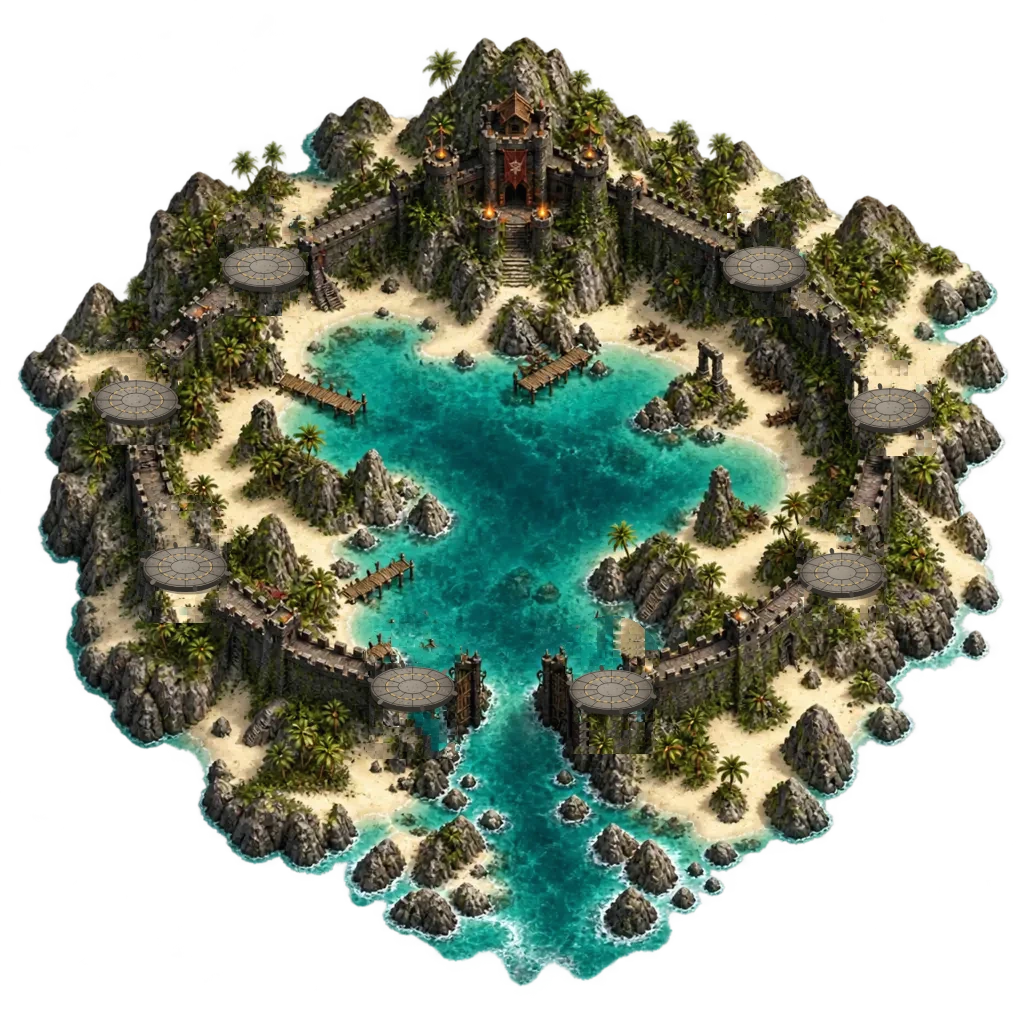
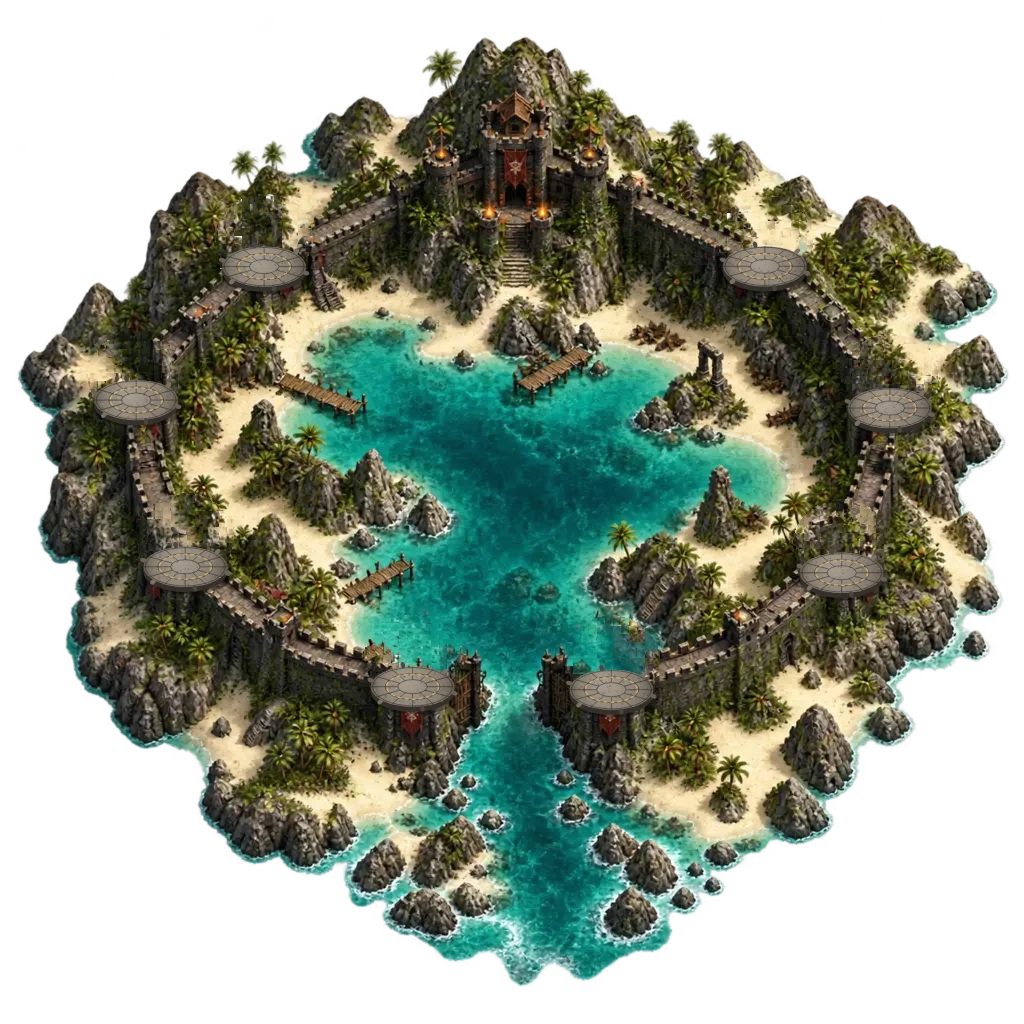
Filo kısaltması (tag), kaptan nicki ve adadaki kum lekesi düzeltmesi (#14)
- Filo kurarken 2–4 karakterlik kısaltma; gemi altında [TAG]nick ve rütbe
- KAPTAN sekmesinden nick: ilki ücretsiz, sonra 50 inci ve 1 gün arayla
- fleet-bastions: kule üstü silinir, alt gövde kaide kütüğü olarak kalır;
  doku yamamada renk ortalaması cezası ve kum kaynağı yasağı (lekeler giderildi)

Claude-Session: https://claude.ai/code/session_01Mc9BhaSSsCCxzjNzAUDeqJ

diff --git a/src/main.ts b/src/main.ts
@@ -7,7 +7,8 @@ import {ABILITIES,SPECIAL_AMMO,MINE,SPEED_BOOST,SHIELD_FACTOR,ARSENAL_MARKET,loa
 import {BOSS,loadFleetOwners,saveFleetOwners} from './conquest';
 import {TALENTS,OFFICERS,OFFICER_MAX_RANK,officerCost,officerSlots,talentPoints,loadCrew,saveCrew,spentPoints,computeBonus,type TalentId,type OfficerId} from './crew';
 import {FLEET_MASK} from './fleetMask';
-import {loadGuild,saveGuild,islandSlots,towerCost,TOWER_SLOTS,GUILD_NAME_MAX,type Guild} from './guild';
+import {loadGuild,saveGuild,islandSlots,towerCost,tagError,TOWER_SLOTS,GUILD_NAME_MAX,GUILD_TAG_MAX,type Guild} from './guild';
+import {loadProfile,saveProfile,nickError,rankOf,NICK_CHANGE_COST,NICK_COOLDOWN_MS,NICK_MAX} from './profile';
 import {createChest,chestRewardText,CHEST_PICKUP_RADIUS,CHEST_CLICK_RADIUS,DRIFT_RESPAWN_SECONDS,type LootChest} from './loot';
 import {ELITE_SHIPS,eliteById,type EliteShipId} from './elite-ships';
 
@@ -64,7 +65,7 @@ document.querySelector<HTMLDivElement>('#app')!.innerHTML = `
       <div class="reward-toast" id="rewardToast"></div>
       <div class="toast" id="toast"></div>
       <div class="portal-prompt" id="portalPrompt"></div><div class="event-panel" id="eventPanel"></div><div class="quest-overlay world-overlay" id="worldMapOverlay"><section class="quest-log world-log"><header><div><span class="eyebrow">Kaptanın deniz haritası</span><h2>DÜNYA HARİTASI</h2></div><button id="closeWorldMap" aria-label="Dünya haritasını kapat">×</button></header><div class="world-chart" id="worldChart"></div><div class="world-info" id="worldInfo"></div></section></div><div class="quest-overlay" id="questOverlay"><section class="quest-log"><header><div><span class="eyebrow">Kaptanın görev defteri</span><h2>DENİZ GÖREVLERİ</h2></div><button id="closeQuests" aria-label="Görevleri kapat">×</button></header><p class="quest-intro">Aynı anda yalnızca bir görev yürütülebilir. İptal edilen veya tamamlanan görev 8 saat sonra yeniden açılır.</p><div class="quest-list" id="questList"></div></section></div>
-      <div class="captain-overlay" id="captainOverlay"><section class="captain-profile"><header><div><span class="eyebrow">Oyuncu profili</span><h2>KAPTAN YASİN</h2></div><button id="closeCaptain" aria-label="Kaptan profilini kapat">×</button></header><div class="captain-tab" id="captainTab-profile"><div class="captain-identity"><div class="captain-portrait"><img src="/assets/icon-hat-v1.webp" alt="" draggable="false"/><b id="captainLevel">1</b></div><div><span>AMİRAL GEMİSİ</span><strong>Kara Yelken</strong><small>Gölgeler Denizi Kaptanı</small></div></div><div class="captain-stat-grid"><article><span>TECRÜBE PUANI</span><b id="xpText">0 / 100</b><i class="xp"><em id="xpBar"></em></i></article><article><span>CAN PUANI</span><b id="hpText">100 / 100</b><i class="hp"><em id="hpBar" style="width:100%"></em></i></article><article><span>ELİT PUAN</span><b id="profileElite">0 / 100</b><i class="elite"><em id="profileEliteBar"></em></i></article><article><span>SAVAŞ PUANI</span><b id="profileBattle">0 / 500</b><i class="battle"><em id="profileBattleBar"></em></i></article></div><div class="bonus-summary" id="bonusSummary"></div></div></section></div><div class="captain-overlay" id="guildOverlay"><section class="captain-profile crew-window guild-window"><header><div><span class="eyebrow">Filo hazinesi ve ada kuleleri</span><h2>FİLO</h2></div><button id="closeGuild" aria-label="Filo penceresini kapat">×</button></header><div id="guildPanel"></div></section></div><div class="captain-overlay" id="crewOverlay"><section class="captain-profile crew-window"><header><div><span class="eyebrow">Geminin subayları</span><h2>TAYFA</h2></div><button id="closeCrew" aria-label="Tayfayı kapat">×</button></header><div id="crewPanel"></div></section></div><div class="quest-overlay" id="settingsOverlay"><section class="quest-log settings-log"><header><div><span class="eyebrow">Oyun tercihleri</span><h2>AYARLAR</h2></div><button id="closeSettings" aria-label="Ayarları kapat">×</button></header><div id="settingsPanel"></div></section></div>
+      <div class="captain-overlay" id="captainOverlay"><section class="captain-profile"><header><div><span class="eyebrow">Oyuncu profili</span><h2 id="captainName">KAPTAN</h2></div><button id="closeCaptain" aria-label="Kaptan profilini kapat">×</button></header><div class="captain-tab" id="captainTab-profile"><div class="captain-identity"><div class="captain-portrait"><img src="/assets/icon-hat-v1.webp" alt="" draggable="false"/><b id="captainLevel">1</b></div><div><span>AMİRAL GEMİSİ</span><strong>Kara Yelken</strong><small>Gölgeler Denizi Kaptanı</small></div></div><div class="captain-nick" id="captainNick"></div><div class="captain-stat-grid"><article><span>TECRÜBE PUANI</span><b id="xpText">0 / 100</b><i class="xp"><em id="xpBar"></em></i></article><article><span>CAN PUANI</span><b id="hpText">100 / 100</b><i class="hp"><em id="hpBar" style="width:100%"></em></i></article><article><span>ELİT PUAN</span><b id="profileElite">0 / 100</b><i class="elite"><em id="profileEliteBar"></em></i></article><article><span>SAVAŞ PUANI</span><b id="profileBattle">0 / 500</b><i class="battle"><em id="profileBattleBar"></em></i></article></div><div class="bonus-summary" id="bonusSummary"></div></div></section></div><div class="captain-overlay" id="guildOverlay"><section class="captain-profile crew-window guild-window"><header><div><span class="eyebrow">Filo hazinesi ve ada kuleleri</span><h2>FİLO</h2></div><button id="closeGuild" aria-label="Filo penceresini kapat">×</button></header><div id="guildPanel"></div></section></div><div class="captain-overlay" id="crewOverlay"><section class="captain-profile crew-window"><header><div><span class="eyebrow">Geminin subayları</span><h2>TAYFA</h2></div><button id="closeCrew" aria-label="Tayfayı kapat">×</button></header><div id="crewPanel"></div></section></div><div class="quest-overlay" id="settingsOverlay"><section class="quest-log settings-log"><header><div><span class="eyebrow">Oyun tercihleri</span><h2>AYARLAR</h2></div><button id="closeSettings" aria-label="Ayarları kapat">×</button></header><div id="settingsPanel"></div></section></div>
       <div class="ship-overlay" id="eliteShipOverlay"><section class="ship-menu elite-ship-window"><header><div><span class="eyebrow">Elit filo tersanesi</span><h2>ELİT GEMİLER</h2><p>Elit puanınla açılan gemiyi incele ve amiral gemin olarak seç.</p></div><button id="closeEliteShips" aria-label="Elit gemileri kapat">×</button></header><div class="elite-ship-layout"><div class="elite-ship-grid" id="eliteShipGrid"></div><aside class="elite-ship-detail" id="eliteShipDetail"></aside></div></section></div><div class="ship-overlay" id="shipOverlay"><section class="ship-menu cannon-window"><header><img class="cannon-window-art" src="/assets/gunner-vignette-v1.webp" alt="" draggable="false"/><div><span class="eyebrow">Topçubaşının silah deposu</span><h2>TOP YERLEŞTİRME</h2><div class="inventory-capacity" id="shipSummary"></div></div><button id="closeShip" aria-label="Envanteri kapat">×</button></header><div class="cannon-rows" id="cannonRows"></div></section></div>
       <div class="development-overlay" id="developmentOverlay"><section class="development-menu"><header><div><span class="eyebrow">Kaptanın gelişim planı</span><h2>GELİŞTİRME</h2></div><button id="closeDevelopment" aria-label="Geliştirmeyi kapat">×</button></header><div id="talentPanel"><div class="dev-tree" id="upgradeList"></div><div class="upgrade-confirm" id="upgradeConfirm"></div></div></section></div>
       <div class="market-overlay" id="marketOverlay"><section class="market-menu"><header><div><span class="eyebrow">Tüccar loncası</span><h2>DENİZ MARKETİ</h2></div><button id="closeMarket" aria-label="Marketi kapat">×</button></header><div class="inventory-strip" id="inventoryStrip"></div><h3 class="market-heading">MÜHİMMAT</h3><div class="market-list" id="marketList"></div><h3 class="market-heading">İNCİ PAKETLERİ</h3><div class="pearl-shop"><div><b>◈ İnci Sandıkları</b><span>Gerçek ödeme sistemi kullanıcı hesaplarıyla birlikte açılacak.</span></div><button disabled>YAKINDA</button></div><div class="market-confirm" id="marketConfirm"></div></section></div>
@@ -195,6 +196,8 @@ const fleetOwners=loadFleetOwners();
 const fleetOwner=(key:MapKey=currentMap)=>fleetOwners[key]??'npc';
 const ownTowers:{x:number;y:number;cooldown:number;slot:number}[]=[];
 let guild:Guild|null=loadGuild();
+const profile=loadProfile();
+function escapeHtml(t:string){return t.replace(/[&<>"']/g,c=>({'&':'&amp;','<':'&lt;','>':'&gt;','"':'&quot;',"'":'&#39;'}[c]!));}
 let bossNextAt=performance.now()+BOSS.firstDelaySeconds*1000;
 let eventPanelClock=0,towersDestroyedHere=0;
 let mapFade=0;
@@ -622,11 +625,28 @@ function renderWorldMap(){
 }
 function openQuestLog(){renderQuestLog();ui('questOverlay').classList.add('open');}
 function closeQuestLog(){pendingCancel=null;ui('questOverlay').classList.remove('open');}
-function openCaptainProfile(){updateUI();renderBonusSummary();ui('captainOverlay').classList.add('open');}
+function openCaptainProfile(){renderNick();updateUI();renderBonusSummary();ui('captainOverlay').classList.add('open');}
 function refreshBonus(){bonus=computeBonus(crew);saveCrew(crew);renderBonusSummary();}
 function renderBonusSummary(){
   const pct=(v:number)=>`${v>=1?'+':''}${Math.round((v-1)*100)}%`;
   ui('bonusSummary').innerHTML=`<span class="eyebrow">Geliştirme, yetenek ve tayfa bonusları</span><div><b>Hasar ${pct(bonus.damage*(1+upgrades.damage*.11))}</b><b>Dolum ${pct(Math.max(.6,1-upgrades.reload*.04)*bonus.reload)}</b><b>Menzil +${upgrades.range*18+bonus.range}</b><b>Hız ${pct(bonus.speed*(104+upgrades.speed*5)/104)}</b><b>Alınan hasar ${pct(bonus.taken)}</b><b>Tamir ${pct(bonus.repair)}</b></div>`;
+}
+// ---------------------------------------------------------------- Kaptan adı (nick): ilk ad ücretsiz, sonra inciyle ve 1 gün arayla
+function renderNick(){
+  ui('captainName').textContent=profile.nick.toLocaleUpperCase('tr');
+  const wait=profile.named?profile.changedAt+NICK_COOLDOWN_MS-Date.now():0,cost=profile.named?NICK_CHANGE_COST:0,h=Math.ceil(wait/3600000);
+  ui('captainNick').innerHTML=`<div><span>KAPTAN ADI</span><strong>${guild?`<em class="guild-tag">[${escapeHtml(guild.tag)}]</em>`:''}${escapeHtml(profile.nick)}</strong><small>${rankOf(state.level)} · ${profile.named?`Değiştirme ücreti ${NICK_CHANGE_COST} İnci · iki değişiklik arası 1 gün`:'İlk adını ücretsiz belirleyebilirsin'}</small></div>
+    <div class="nick-form"><input id="nickInput" maxlength="${NICK_MAX}" placeholder="Yeni kaptan adı" ${wait>0?'disabled':''}/><button id="nickSave" ${wait>0?'disabled':''}>${wait>0?`${h} SAAT SONRA`:cost?`DEĞİŞTİR · ${cost} İNCİ`:'ADI KAYDET'}</button></div>`;
+  const btn=document.getElementById('nickSave') as HTMLButtonElement|null;if(!btn||wait>0)return;
+  btn.onclick=()=>{const n=(ui('nickInput') as HTMLInputElement).value.trim(),err=nickError(n);if(err){toast(err);return;}if(n===profile.nick){toast('Bu zaten senin adın');return;}
+    if(cost&&state.pearls<cost){toast(`Ad değiştirmek için ${cost} inci gerekli`);return;}state.pearls-=cost;profile.nick=n;profile.changedAt=Date.now();profile.named=true;saveProfile(profile);saveAccount();updateUI();renderNick();rewardNotice(`KAPTAN ADI: ${n}${cost?`   −${cost} İNCİ`:''}`);};
+}
+// Gemi altındaki ad: [FİLO TAG] nick, altında rütbe
+function drawPlayerLabel(){
+  const p=worldToScreen(player),y=p.y+62,tag=guild?`[${guild.tag}]`:'',nick=profile.nick;
+  ctx.save();ctx.font='700 16px Inter';ctx.textBaseline='middle';const tw=tag?ctx.measureText(tag).width+3:0,nw=ctx.measureText(nick).width,x0=p.x-(tw+nw)/2;
+  ctx.shadowColor='#000';ctx.shadowBlur=4;if(tag){ctx.fillStyle='#ffd24a';ctx.textAlign='left';ctx.fillText(tag,x0,y);}ctx.fillStyle='#f4f1ea';ctx.textAlign='left';ctx.fillText(nick,x0+tw,y);
+  ctx.font='600 12px Inter';ctx.fillStyle='#5fd8e0';ctx.textAlign='center';ctx.fillText(`${rankOf(state.level)} · Sv ${state.level}`,p.x,y+17);ctx.restore();
 }
 // ---------------------------------------------------------------- Filo: hazine, bağış ve kule dikme
 function openGuild(){renderGuild();ui('guildOverlay').classList.add('open');}
@@ -634,14 +654,15 @@ function closeGuild(){ui('guildOverlay').classList.remove('open');}
 function ownedFleetIslands(){return(Object.keys(MAPS) as MapKey[]).filter(k=>MAPS[k].tier>=5&&fleetOwner(k)==='player');}
 function renderGuild(){
   const panel=ui('guildPanel');
-  if(!guild){panel.innerHTML=`<div class="guild-create"><p>Henüz bir filon yok. Filo kurduğunda <b>filo başkanı</b> sen olursun. Filo üyeleri hazineye <b>inci bağışlar</b>. Başkan da bu hazineyle filo adalarındaki boş kaidelere kule diker.</p><label>Filo adı<input id="guildName" maxlength="${GUILD_NAME_MAX}" placeholder="Ör. Kara Yelkenliler"/></label><button id="guildCreate">FİLO KUR</button></div>`;
-    ui('guildCreate').onclick=()=>{const name=(ui('guildName') as HTMLInputElement).value.trim();if(name.length<3){toast('Filo adı en az 3 harf olmalı');return;}guild={name,treasury:0,donated:0,created:Date.now(),towers:{}};for(const k of ownedFleetIslands())islandSlots(guild,k);saveGuild(guild);setupFleetIsland();rewardNotice(`${name.toLocaleUpperCase('tr')} FİLOSU KURULDU`);renderGuild();};return;}
+  if(!guild){panel.innerHTML=`<div class="guild-create"><p>Henüz bir filon yok. Filo kurduğunda <b>filo başkanı</b> sen olursun. Filo üyeleri hazineye <b>inci bağışlar</b>. Başkan da bu hazineyle filo adalarındaki boş kaidelere kule diker.</p><div class="guild-create-row"><label>Kısaltma (tag)<input id="guildTag" maxlength="${GUILD_TAG_MAX}" placeholder="Ör. TC★"/></label><label>Filo adı<input id="guildName" maxlength="${GUILD_NAME_MAX}" placeholder="Ör. Türk Korsanları"/></label></div><small class="guild-hint">Kısaltma gemi adının önünde görünür: <b>[TC★]${escapeHtml(profile.nick)}</b></small><button id="guildCreate">FİLO KUR</button></div>`;
+    const tagInput=ui('guildTag') as HTMLInputElement;tagInput.oninput=()=>{tagInput.value=tagInput.value.toLocaleUpperCase('tr').replace(/\*/g,'★');};
+    ui('guildCreate').onclick=()=>{const name=(ui('guildName') as HTMLInputElement).value.trim(),tag=tagInput.value.trim(),te=tagError(tag);if(te){toast(te);return;}if(name.length<3){toast('Filo adı en az 3 harf olmalı');return;}const g:Guild={name,tag,treasury:0,donated:0,created:Date.now(),towers:{}};guild=g;for(const k of ownedFleetIslands())islandSlots(g,k);saveGuild(g);setupFleetIsland();rewardNotice(`[${tag}] ${name.toLocaleUpperCase('tr')} FİLOSU KURULDU`);renderGuild();};return;}
   const g=guild,islands=ownedFleetIslands(),map=mapDef(),here=hasFleetIsland()?map.fleet.name:'';
   const islandHtml=islands.length?islands.map(k=>{const m=MAPS[k],slots=islandSlots(g,k),cost=towerCost(m.tier),built=slots.filter(Boolean).length;
     return`<article class="guild-island"><header><div><span class="eyebrow">${m.key} · Seviye ${m.tier}</span><h4>${m.fleet.name}</h4></div><b>${built} / ${TOWER_SLOTS} kule</b></header><div class="tower-slots">${slots.map((t,i)=>t?`<div class="tower-slot built"><i class="tower-art" style="background-position:${(i%4)/3*100}% ${Math.floor(i/4)*100}%"></i><small>Kule ${i+1}</small><em><span style="width:${Math.round(t.hp/t.maxHp*100)}%"></span></em></div>`:`<button class="tower-slot empty" data-build="${k}:${i}" ${g.treasury<cost?'disabled':''}><i class="tower-art ghost" style="background-position:${(i%4)/3*100}% ${Math.floor(i/4)*100}%"></i><small>Kaide ${i+1}</small><b>DİK · ${cost} İnci</b></button>`).join('')}</div></article>`;}).join('')
     :`<p class="guild-empty">Filonun henüz bir adası yok. Adalar 5. seviye ve üstü denizlerdedir. Bir adanın bütün kulelerini yıkınca ada filona katılır ve kaideleri boşalır.</p>`;
   const testClaim=FLEET_TEST_ENTRY&&hasFleetIsland()&&fleetOwner()!=='player'?`<button class="guild-test" id="guildClaim">TEST: ${here} adasını filona kat</button>`:'';
-  panel.innerHTML=`<div class="guild-head"><div><span class="eyebrow">Filo</span><h3>${g.name}</h3><small>Başkan: Kaptan (sen) · Üye: 1</small></div><div class="guild-treasury"><span>FİLO HAZİNESİ</span><strong><i class="sprite icon-pearl"></i>${g.treasury} İnci</strong><small>Senin bağışın: ${g.donated} İnci</small></div></div>
+  panel.innerHTML=`<div class="guild-head"><div><span class="eyebrow">Filo</span><h3><em class="guild-tag">[${escapeHtml(g.tag)}]</em> ${escapeHtml(g.name)}</h3><small>Başkan: ${escapeHtml(profile.nick)} (sen) · Üye: 1</small></div><div class="guild-treasury"><span>FİLO HAZİNESİ</span><strong><i class="sprite icon-pearl"></i>${g.treasury} İnci</strong><small>Senin bağışın: ${g.donated} İnci</small></div></div>
     <div class="guild-donate"><span>İnci bağışla <small>(elindeki: ${state.pearls})</small></span>${[10,50,100].map(n=>`<button data-donate="${n}" ${state.pearls<n?'disabled':''}>+${n}</button>`).join('')}<input id="donateAmount" type="number" min="1" max="${state.pearls}" placeholder="Miktar"/><button id="donateCustom">BAĞIŞLA</button></div>
     <p class="guild-note">Kuleler adanın parçası değildir. Surdaki yuvarlak kaideler boştur; kuleyi yalnızca <b>filo başkanı</b>, filo hazinesindeki inciyle diker. Dikilen kule adana yaklaşan düşmanlara ateş eder.</p>
     ${testClaim}<div class="guild-islands">${islandHtml}</div>`;
@@ -1053,7 +1074,7 @@ function draw(){
   shots.forEach(s=>{const p=worldToScreen(s);ctx.fillStyle=s.owner==='player'?(s.ammo==='fire'?'#ff8a2a':s.ammo==='grape'?'#d8d2c0':'#ffd889'):'#ff7450';ctx.shadowColor=ctx.fillStyle;ctx.shadowBlur=9;ctx.beginPath();ctx.arc(p.x,p.y,4,0,7);ctx.fill();ctx.shadowBlur=0;});
   [...enemies].sort((a,b)=>a.y-b.y).forEach(e=>{const s=worldToScreen(e),raster=e.tower?drawBastion(ctx,e.towerIndex??0,s.x,s.y):e.boss?drawBossSprite(ctx,s.x,s.y,e.angle,performance.now()):e.def?drawNpcShip(ctx,e.def.sprite,e.def.span,s.x,s.y,e.angle,performance.now()):false;if(!raster)drawShip(e,e.angle,e.color);const top=raster?(e.tower?TOWER_LABEL_OFFSET:e.boss?BOSS_LABEL_OFFSET:shipLabelOffset(e.def!.span)):-42;ctx.fillStyle='#07161c';ctx.fillRect(s.x-25,s.y+top,50,5);ctx.fillStyle=e.tower?'#e0823f':e.role==='heavy'?'#e04b3f':'#50a8b4';ctx.fillRect(s.x-25,s.y+top,50*e.hp/e.maxHp,5);ctx.fillStyle='#d7cbb5';ctx.font='10px Inter';ctx.textAlign='center';ctx.fillText(e.name,s.x,s.y+top-7);});
   if(selected&&targetExists(selected)){const t=worldToScreen(selected);ctx.strokeStyle='#f1c662';ctx.lineWidth=2;ctx.beginPath();ctx.arc(t.x,t.y,selected.kind==='monster'?selected.radius+10:34,0,7);ctx.stroke();}
-  drawPlayerShip();
+  drawPlayerShip();drawPlayerLabel();
   if(abilityActive('shield')){const p=worldToScreen(player),t=performance.now()/1000,g=ctx.createRadialGradient(p.x,p.y,30,p.x,p.y,62);g.addColorStop(0,'#9fe8ff00');g.addColorStop(.75,'#9fe8ff30');g.addColorStop(1,'#d4a64c88');ctx.fillStyle=g;ctx.beginPath();ctx.arc(p.x,p.y,62,0,Math.PI*2);ctx.fill();ctx.strokeStyle=`rgba(212,166,76,${.55+Math.sin(t*6)*.25})`;ctx.lineWidth=2;ctx.beginPath();ctx.arc(p.x,p.y,62,0,Math.PI*2);ctx.stroke();}
   if(destination){const d=worldToScreen(destination),p=worldToScreen(player);ctx.strokeStyle='#e7cf8d55';ctx.setLineDash([3,8]);ctx.beginPath();ctx.moveTo(p.x,p.y);ctx.lineTo(d.x,d.y);ctx.stroke();ctx.setLineDash([]);ctx.strokeStyle='#e7cf8d';ctx.beginPath();ctx.arc(d.x,d.y,9,0,7);ctx.stroke();}
   const ps=worldToScreen(player);ctx.strokeStyle=selected?'#e8cf934d':'#e8cf9328';ctx.setLineDash([4,7]);ctx.beginPath();ctx.arc(ps.x,ps.y,selected?effectiveRange():115,0,Math.PI*2);ctx.stroke();ctx.setLineDash([]);

diff --git a/src/guild.ts b/src/guild.ts
@@ -3,14 +3,17 @@
 import type {MapKey} from './campaign';
 
 export type TowerSlot={hp:number;maxHp:number};
-export type Guild={name:string;treasury:number;donated:number;created:number;towers:Partial<Record<MapKey,(TowerSlot|null)[]>>};
+export type Guild={name:string;tag:string;treasury:number;donated:number;created:number;towers:Partial<Record<MapKey,(TowerSlot|null)[]>>};
 export const TOWER_SLOTS=8;
 export const towerCost=(tier:number)=>20+10*tier;
-export const GUILD_NAME_MAX=24;
+export const GUILD_NAME_MAX=24,GUILD_TAG_MIN=2,GUILD_TAG_MAX=4;
+// Filo kısaltması (tag): 2–4 büyük harf, rakam ya da ★; eski kayıtlarda filo adının baş harflerinden türetilir.
+export const tagError=(t:string)=>t.length<GUILD_TAG_MIN||t.length>GUILD_TAG_MAX?`Kısaltma ${GUILD_TAG_MIN}–${GUILD_TAG_MAX} karakter olmalı`:!/^[\p{Lu}\p{N}★]+$/u.test(t)?'Kısaltma büyük harf, rakam ya da ★ olabilir':'';
+const initials=(n:string)=>n.split(/\s+/).map(w=>w[0]||'').join('').toLocaleUpperCase('tr').slice(0,GUILD_TAG_MAX)||'KY';
 const STORAGE='kara-yelken-guild-v1';
 
 export function loadGuild():Guild|null{
-  try{const raw=JSON.parse(localStorage.getItem(STORAGE)||'null');if(raw&&typeof raw.name==='string')return{name:raw.name,treasury:Math.max(0,raw.treasury|0),donated:Math.max(0,raw.donated|0),created:raw.created||Date.now(),towers:raw.towers&&typeof raw.towers==='object'?raw.towers:{}};}catch{}
+  try{const raw=JSON.parse(localStorage.getItem(STORAGE)||'null');if(raw&&typeof raw.name==='string')return{name:raw.name,tag:typeof raw.tag==='string'&&raw.tag?raw.tag:initials(raw.name).padEnd(GUILD_TAG_MIN,'★'),treasury:Math.max(0,raw.treasury|0),donated:Math.max(0,raw.donated|0),created:raw.created||Date.now(),towers:raw.towers&&typeof raw.towers==='object'?raw.towers:{}};}catch{}
   return null;
 }
 export function saveGuild(g:Guild|null){try{if(g)localStorage.setItem(STORAGE,JSON.stringify(g));else localStorage.removeItem(STORAGE);}catch{}}

diff --git a/src/style.css b/src/style.css
@@ -411,3 +411,15 @@ button.event-row{cursor:pointer}
 .tower-art.ghost{opacity:.28;filter:grayscale(1)}
 .tower-slot em{display:block;width:80%;height:4px;border-radius:2px;background:#07161c;overflow:hidden}.tower-slot em span{display:block;height:100%;background:#3fd6c0}
 @media(max-width:760px){.tower-slots{grid-template-columns:repeat(2,1fr)}.guild-head{flex-direction:column;align-items:flex-start}.guild-treasury{justify-items:start}}
+
+/* Kaptan adı (nick) ve filo kısaltması */
+.guild-tag{font-style:normal;color:#ffd24a;margin-right:2px}
+.guild-create-row{display:grid;grid-template-columns:140px 1fr;gap:10px}
+.guild-hint{font:600 11px Inter;color:#9fb8b0}.guild-hint b{color:#f4f1ea}
+.captain-nick{display:flex;flex-wrap:wrap;justify-content:space-between;align-items:center;gap:10px;margin:10px 0;padding:10px 12px;border:1px solid #bd914b55;border-radius:8px;background:#071419cc}
+.captain-nick>div:first-child{display:grid;gap:2px}.captain-nick span{font:800 9px Inter;letter-spacing:.14em;color:#d8b268}
+.captain-nick strong{font:700 16px Inter;color:#f4f1ea}.captain-nick small{font:600 11px Inter;color:#5fd8e0}
+.nick-form{display:flex;gap:8px}.nick-form input{width:170px;padding:8px 10px;border:1px solid #bd914b88;border-radius:6px;background:#04101399;color:#f3e6c8;font:600 13px Inter}
+.nick-form button{padding:8px 12px;border:1px solid #d8b268;border-radius:6px;background:linear-gradient(#5a3a1c,#2c1a0c);color:#ffe2a0;font:800 11px Inter;letter-spacing:.06em;cursor:pointer}
+.nick-form :disabled{opacity:.5;cursor:not-allowed}
+@media(max-width:760px){.guild-create-row{grid-template-columns:1fr}.nick-form input{width:130px}}

diff --git a/src/profile.ts b/src/profile.ts
@@ -1,0 +1,16 @@
+// Kaptan profili: oyuncu nicki. İlk ad ücretsizdir; sonraki her değişiklik inci tutar ve iki değişiklik arasında 1 gün beklenir.
+export type Profile={nick:string;changedAt:number;named:boolean};
+export const NICK_CHANGE_COST=50;
+export const NICK_COOLDOWN_MS=24*60*60*1000;
+export const NICK_MIN=3,NICK_MAX=16;
+const STORAGE='kara-yelken-profile-v1';
+export function loadProfile():Profile{
+  try{const raw=JSON.parse(localStorage.getItem(STORAGE)||'null');if(raw&&typeof raw.nick==='string')return{nick:raw.nick,changedAt:raw.changedAt||0,named:!!raw.named};}catch{}
+  return{nick:'Kaptan',changedAt:0,named:false};
+}
+export function saveProfile(p:Profile){try{localStorage.setItem(STORAGE,JSON.stringify(p));}catch{}}
+// Harf, rakam, alt çizgi ve nokta; 3–16 karakter
+export function nickError(n:string){if(n.length<NICK_MIN||n.length>NICK_MAX)return`Nick ${NICK_MIN}–${NICK_MAX} karakter olmalı`;if(!/^[\p{L}\p{N}_.]+$/u.test(n))return'Nick yalnızca harf, rakam, _ ve . içerebilir';return'';}
+// Seviyeye göre kaptan rütbesi (gemi altındaki unvan)
+export const RANKS=['Miço','Tayfa','Lostromo','Serdümen','Kaptan','Süvari Kaptan','Kaptan Paşa','Amiral','Kaptan-ı Deryâ'];
+export const rankOf=(level:number)=>RANKS[Math.max(0,Math.min(RANKS.length-1,level-1))];

diff --git a/README.md b/README.md
@@ -49,11 +49,15 @@ Filo adaları 5. seviye ve üstü denizlerde bulunur: sur halkasıyla çevrili, 
 - **Rakip ada:** Kuleleri yaklaşan gemiye ateş eder ve filo savaşı ölçeğinde dayanıklıdır; tek gemi yıkamaz. **Test modu (`FLEET_TEST_ENTRY`) açıkken rakip adaların lagününe de girilebilir.**
 
 ### Filo (FİLO sekmesi)
-- **Filo kur:** Filoyu kuran oyuncu filo başkanı olur. Çok oyunculu mod gelene kadar filoda yalnızca sen varsın.
+- **Filo kur:** Filo kurarken 2–4 karakterlik bir kısaltma (tag, ör. `TC★`) ve filo adı seçilir. Filoyu kuran oyuncu filo başkanı olur. Kısaltma gemi adının önünde görünür: `[TC★]__kemanist__`. Çok oyunculu mod gelene kadar filoda yalnızca sen varsın.
 - **İnci bağışı:** Oyuncular filo hazinesine inci bağışlar (+10, +50, +100 ya da istenen miktar).
 - **Kuleler adadan bağımsızdır:** Ada görselinde kulelerin yeri boştur; surda 8 taş dikme kaidesi vardır (`fleet-base-v4`). Filo başkanı, hazinedeki inciyle kaideye kule diker; bedeli `20 + 10 × seviye` incidir. Dikilen kule, ada görselindeki burcun birebir aynısıdır (`fleet-bastions-v1`) ve adaya yaklaşan düşmanlara ateş eder. Rakip adalarda NPC filosunun burçları durur.
 - Görseller `tools/asset-studio/fleet-bastions.mjs` ile üretilir: burçlar ada görselinden kesilir, yerleri çevre dokusuyla doldurulur ve kaideler çizilir.
 - Fethedilen adanın kaideleri boş gelir. Test modunda bulunduğun denizin adası FİLO sekmesinden doğrudan filoya katılabilir.
+
+### Kaptan adı (KAPTAN sekmesi)
+- Gemi altında `[FİLO TAG]nick` ve kaptan rütbesi (Miço → Kaptan-ı Deryâ) yazar.
+- İlk kaptan adı ücretsizdir. Sonraki her değişiklik 50 inci tutar ve iki değişiklik arasında 1 gün beklemek gerekir. Nick 3–16 karakterdir; harf, rakam, `_` ve `.` içerebilir.
 
 ### Seviye ve görevler
 
